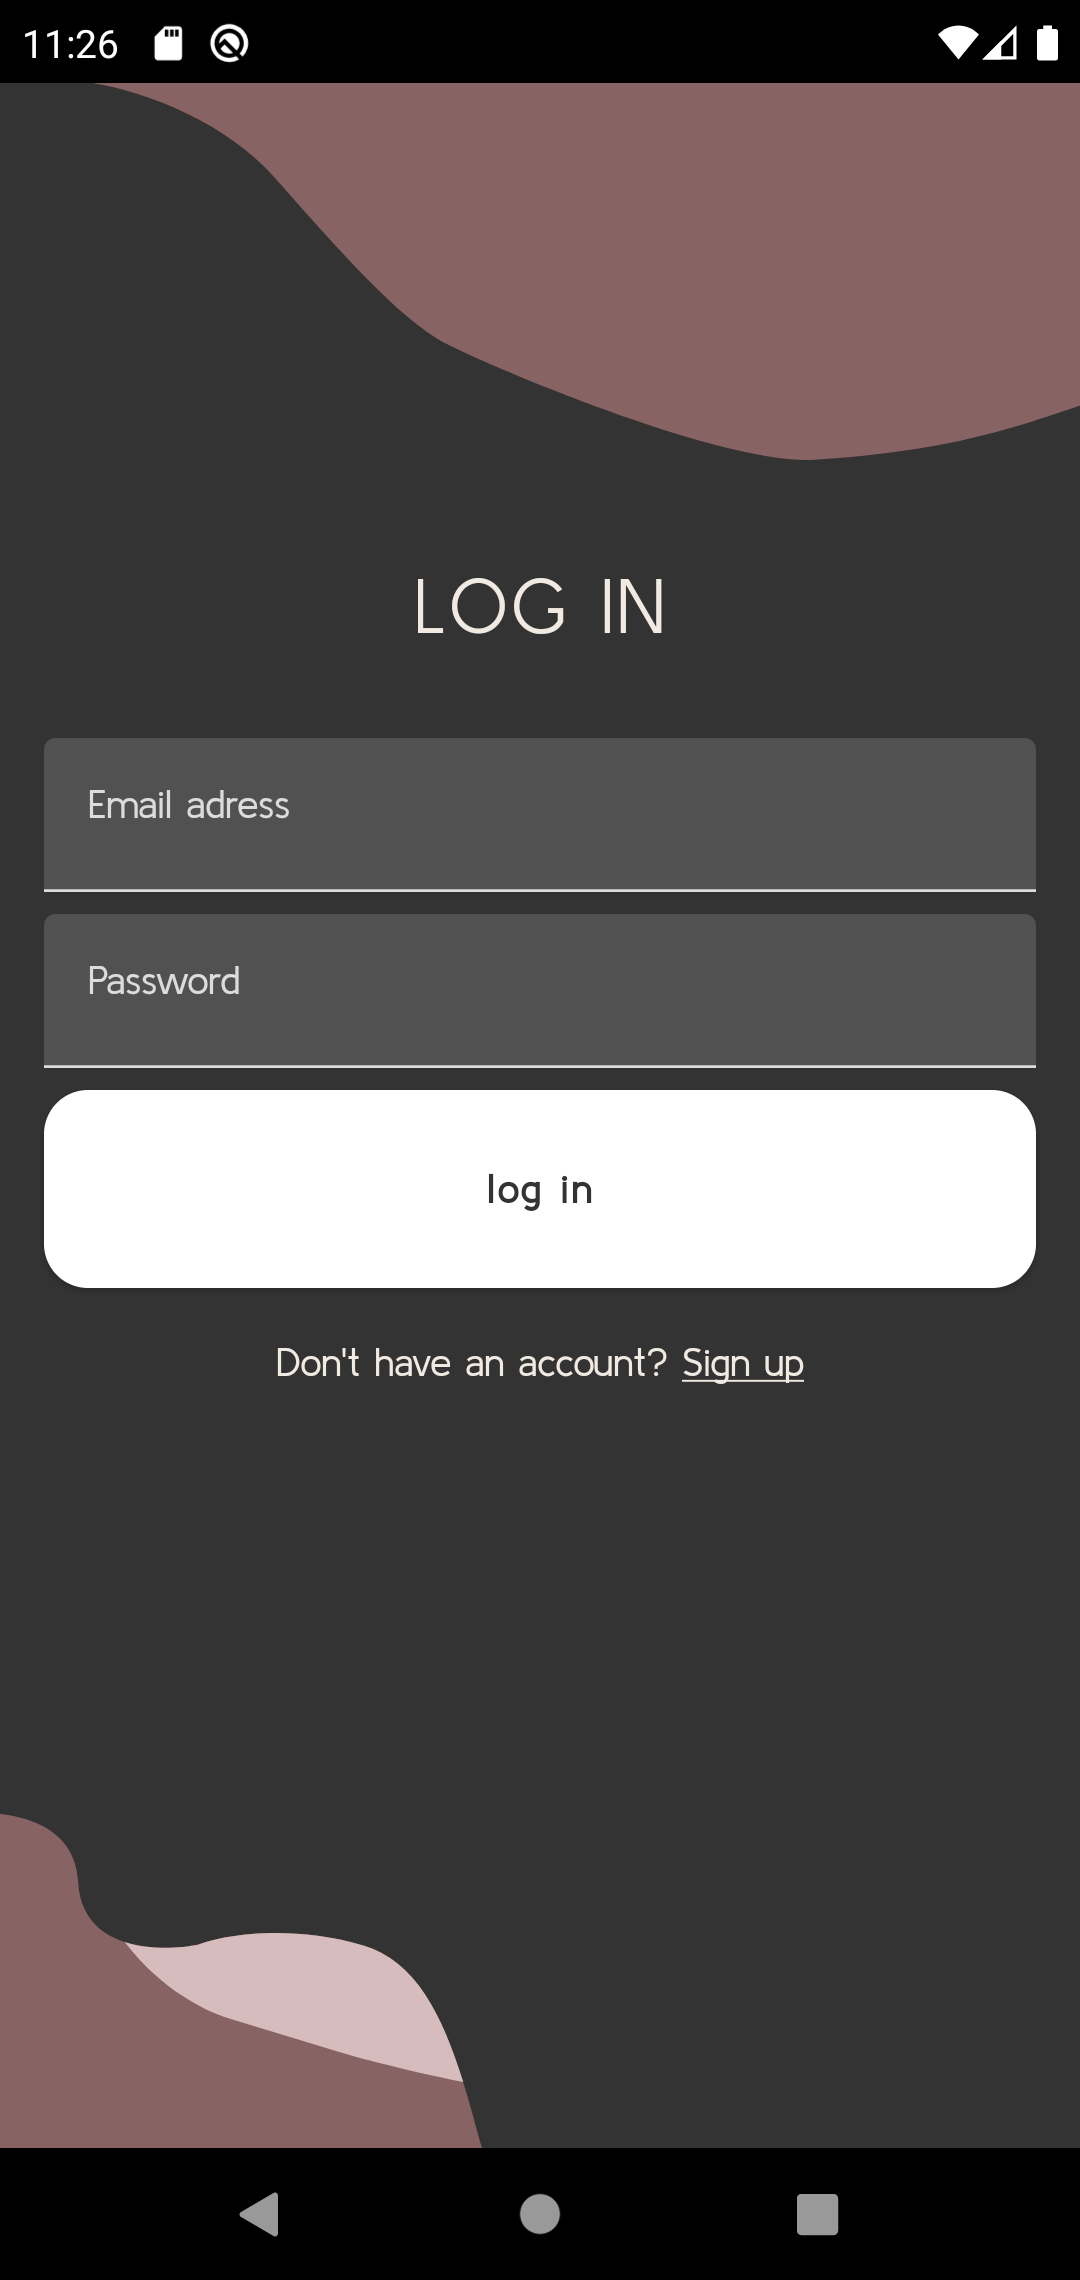
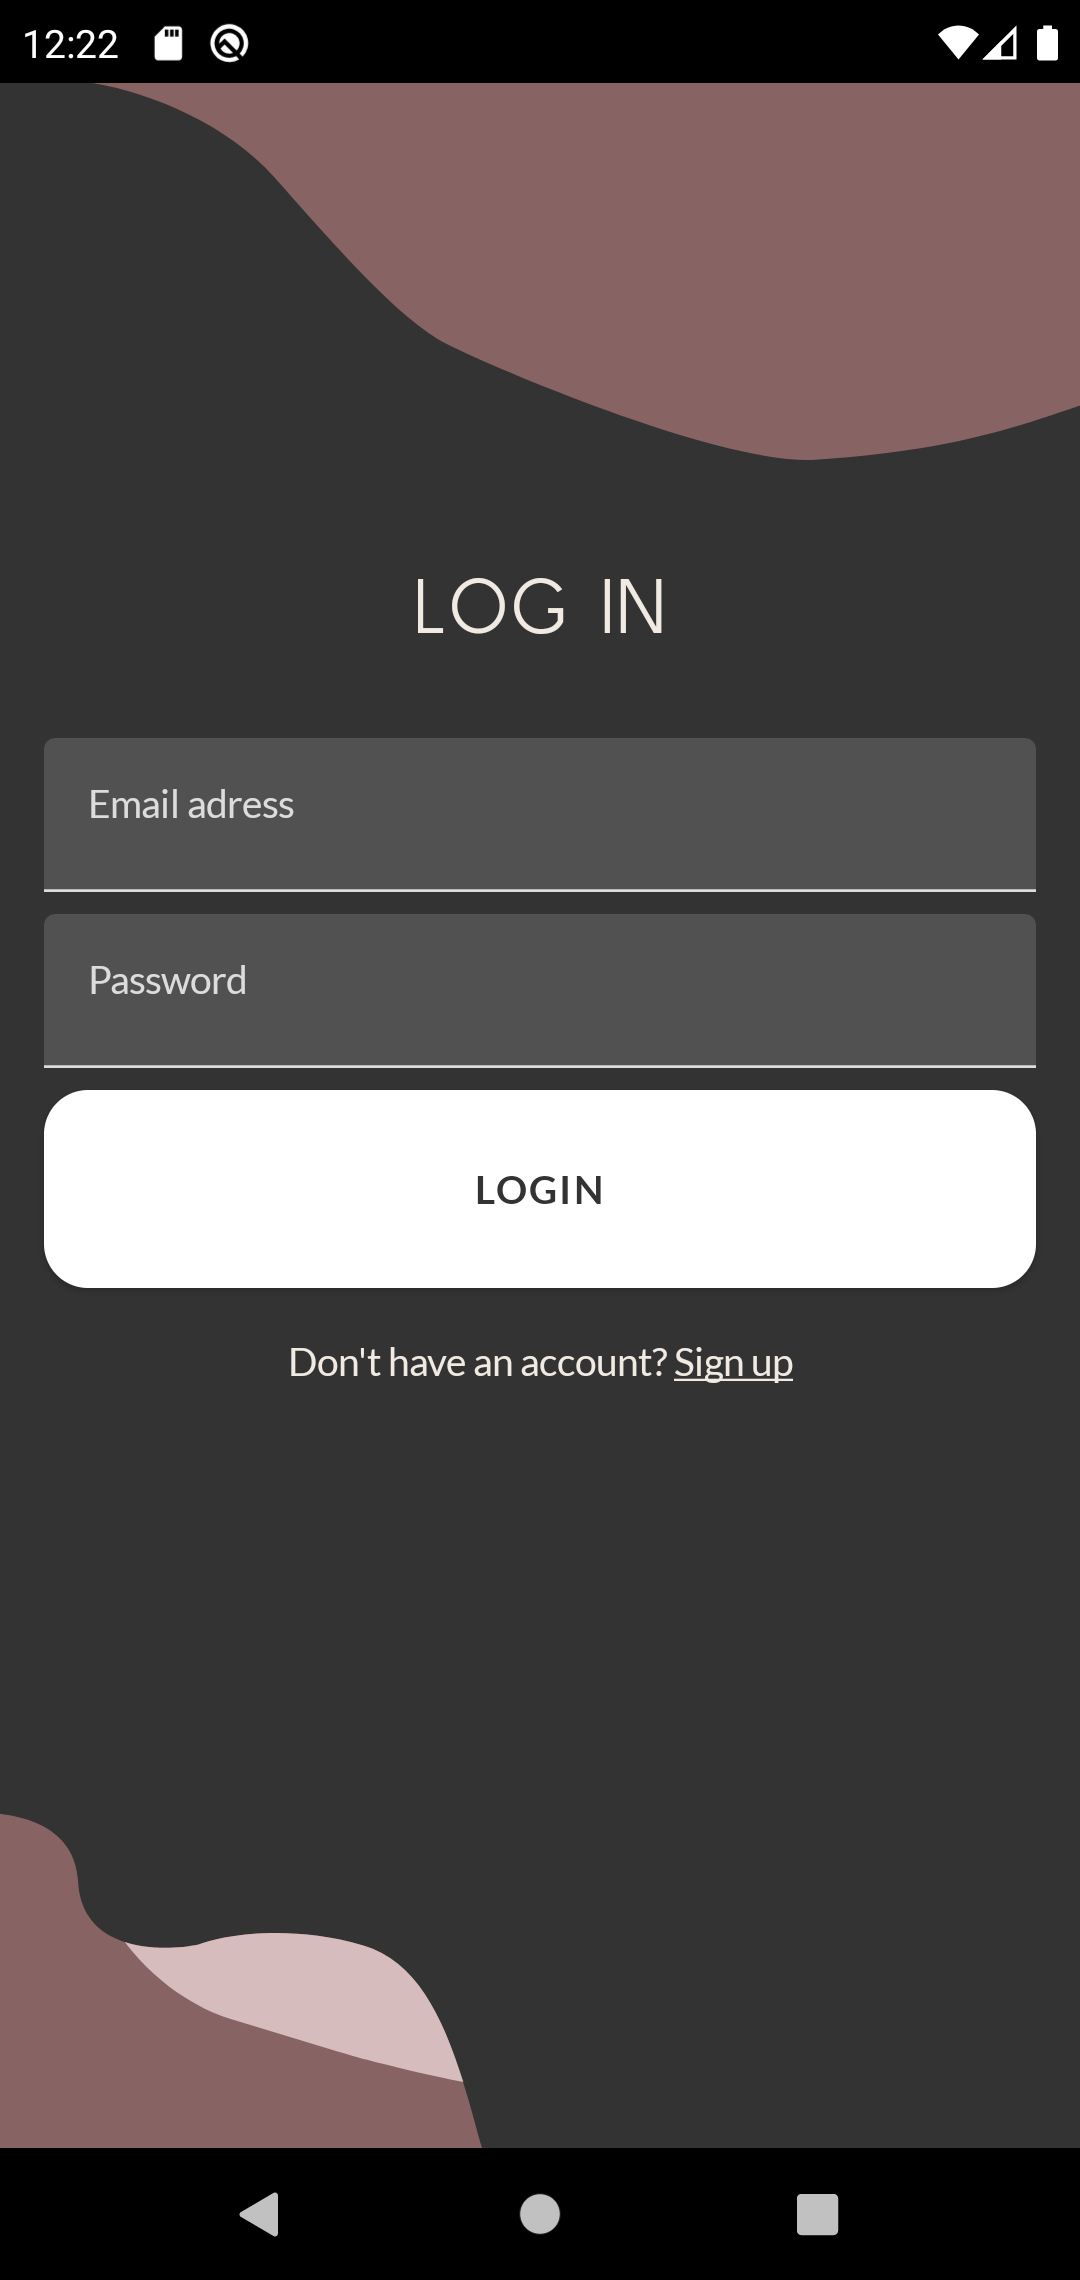
update caps typo and screenshots

diff --git a/app/src/main/java/com/example/androiddevchallenge/HomeScreen.kt b/app/src/main/java/com/example/androiddevchallenge/HomeScreen.kt
@@ -108,7 +108,7 @@ fun HomeScreen(
                 Text(
                     modifier = Modifier
                         .paddingFromBaseline(top = 40.dp),
-                    text = "favorite collections",
+                    text = "FAVORITE COLLECTIONS",
                     style = typography.h2,
                     color = colors.onBackground
                 )
@@ -135,7 +135,7 @@ fun HomeScreen(
                 Text(
                     modifier = Modifier
                         .paddingFromBaseline(top = 48.dp, bottom = 8.dp),
-                    text = "align your body",
+                    text = "ALIGN YOUR BODY",
                     style = typography.h2,
                     color = colors.onBackground
                 )
@@ -152,7 +152,7 @@ fun HomeScreen(
                 Text(
                     modifier = Modifier
                         .paddingFromBaseline(top = 48.dp, bottom = 8.dp),
-                    text = "align your mind",
+                    text = "ALIGN YOUR MIND",
                     style = typography.h2,
                     color = colors.onBackground
                 )

diff --git a/app/src/main/java/com/example/androiddevchallenge/ui/theme/Type.kt b/app/src/main/java/com/example/androiddevchallenge/ui/theme/Type.kt
@@ -48,7 +48,6 @@ val typography = Typography(
         fontWeight = FontWeight.Normal,
         fontSize = 15.sp,
         letterSpacing = 1.15.sp,
-        fontFeatureSettings = "c2sc, smcp"
     ),
     h3 = TextStyle(
         fontFamily = fontLato,
@@ -67,13 +66,11 @@ val typography = Typography(
         fontWeight = FontWeight.Bold,
         fontSize = 14.sp,
         letterSpacing = 1.15.sp,
-        fontFeatureSettings = "c2sc, smcp"
         ),
     caption = TextStyle(
         fontFamily = fontKulimpark,
         fontWeight = FontWeight.Normal,
         fontSize = 12.sp,
         letterSpacing = 1.15.sp,
-        fontFeatureSettings = "c2sc, smcp"
     )
 )

diff --git a/app/src/main/java/com/example/androiddevchallenge/BottomBar.kt b/app/src/main/java/com/example/androiddevchallenge/BottomBar.kt
@@ -43,7 +43,7 @@ fun BottomBar() {
                     tint = colors.onBackground
                 )
                 Text(
-                    text = "Home",
+                    text = "HOME",
                     style = typography.caption
                 )
             }
@@ -59,7 +59,7 @@ fun BottomBar() {
                     tint = colors.onBackground
                 )
                 Text(
-                    text = "Profile",
+                    text = "PROFILE",
                     style = typography.caption
                 )
             }

diff --git a/app/src/main/java/com/example/androiddevchallenge/WelcomeScreen.kt b/app/src/main/java/com/example/androiddevchallenge/WelcomeScreen.kt
@@ -56,7 +56,7 @@ fun WelcomeScreen(
             )
         ) {
             Text(
-                text = "Sign up",
+                text = "SIGN UP",
                 style = typography.button
             )
         }
@@ -74,7 +74,7 @@ fun WelcomeScreen(
             )
         ) {
             Text(
-                text = "Login",
+                text = "LOGIN",
                 style = typography.button
             )
         }

diff --git a/app/src/main/java/com/example/androiddevchallenge/LogInScreen.kt b/app/src/main/java/com/example/androiddevchallenge/LogInScreen.kt
@@ -87,7 +87,7 @@ fun LoginScreen(
             )
         ) {
             Text(
-                text = "log in",
+                text = "LOGIN",
                 style = typography.button
             )
         }
